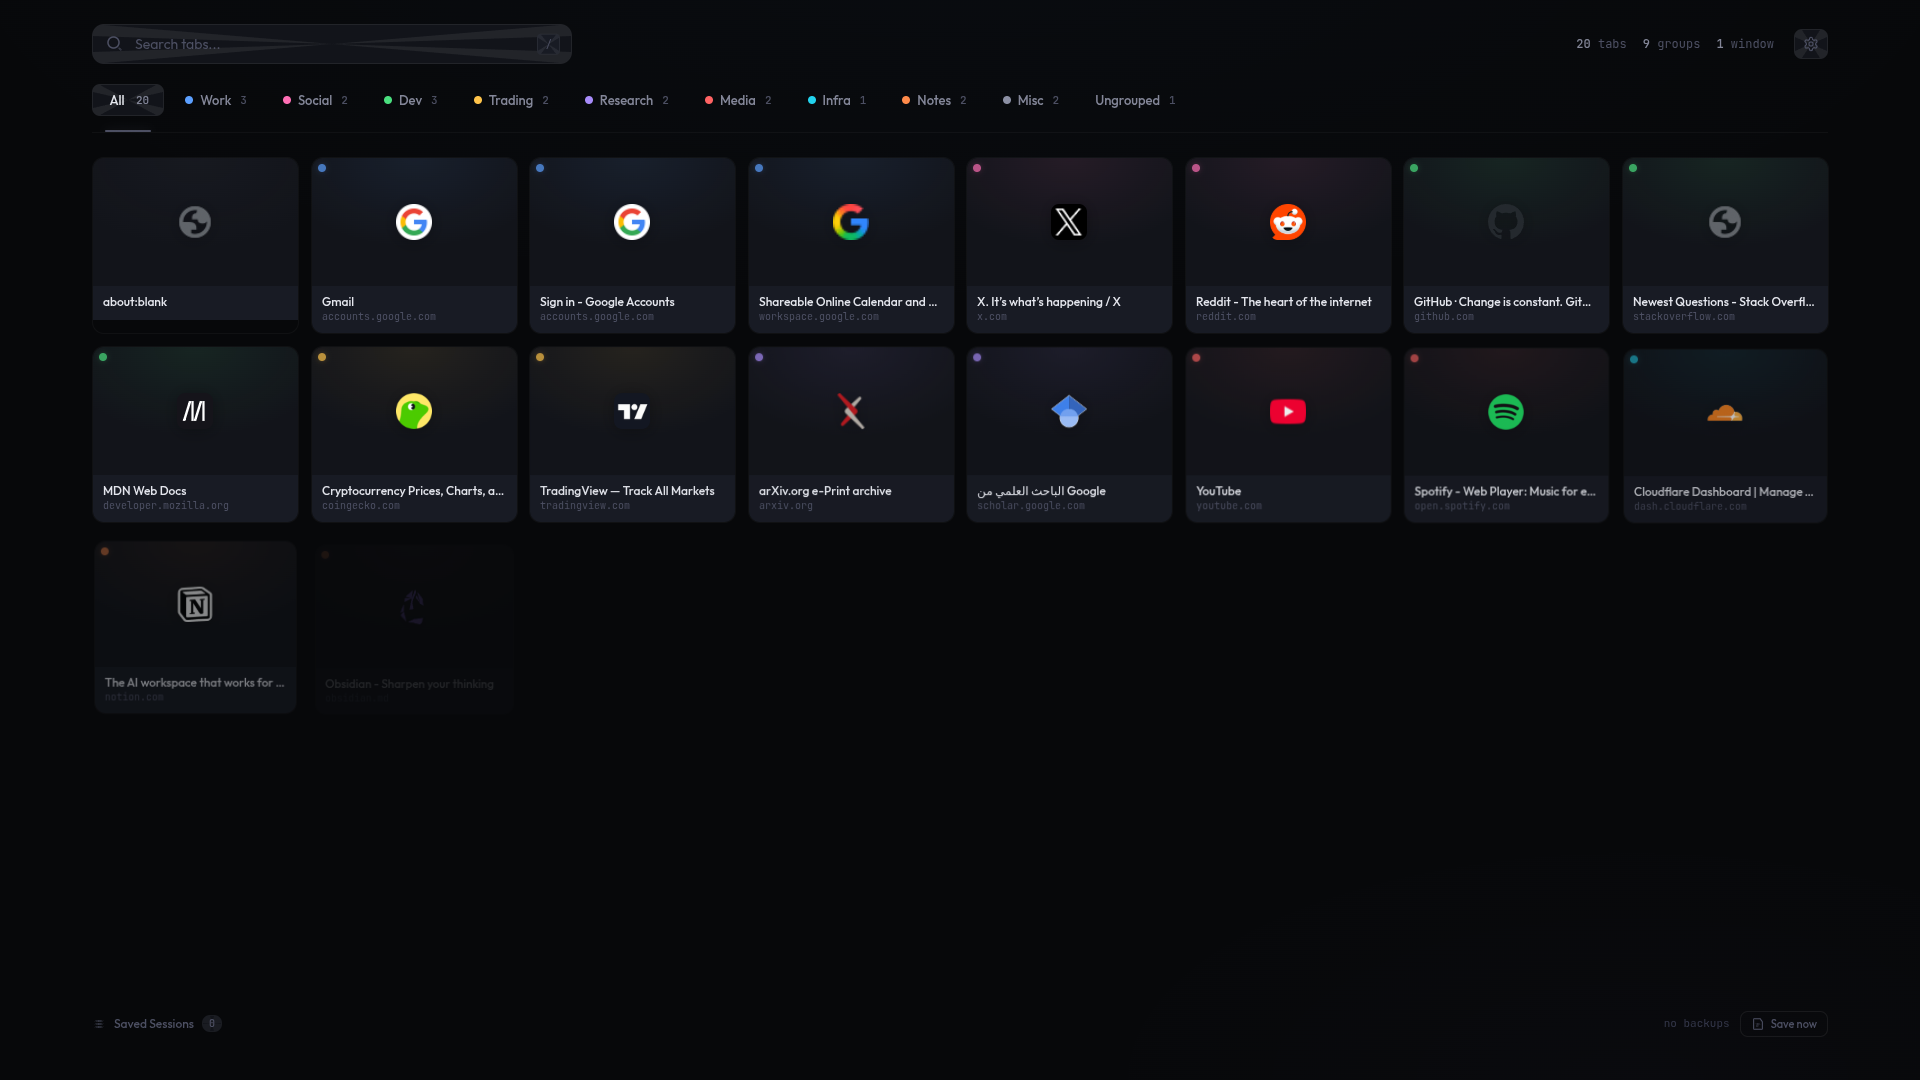
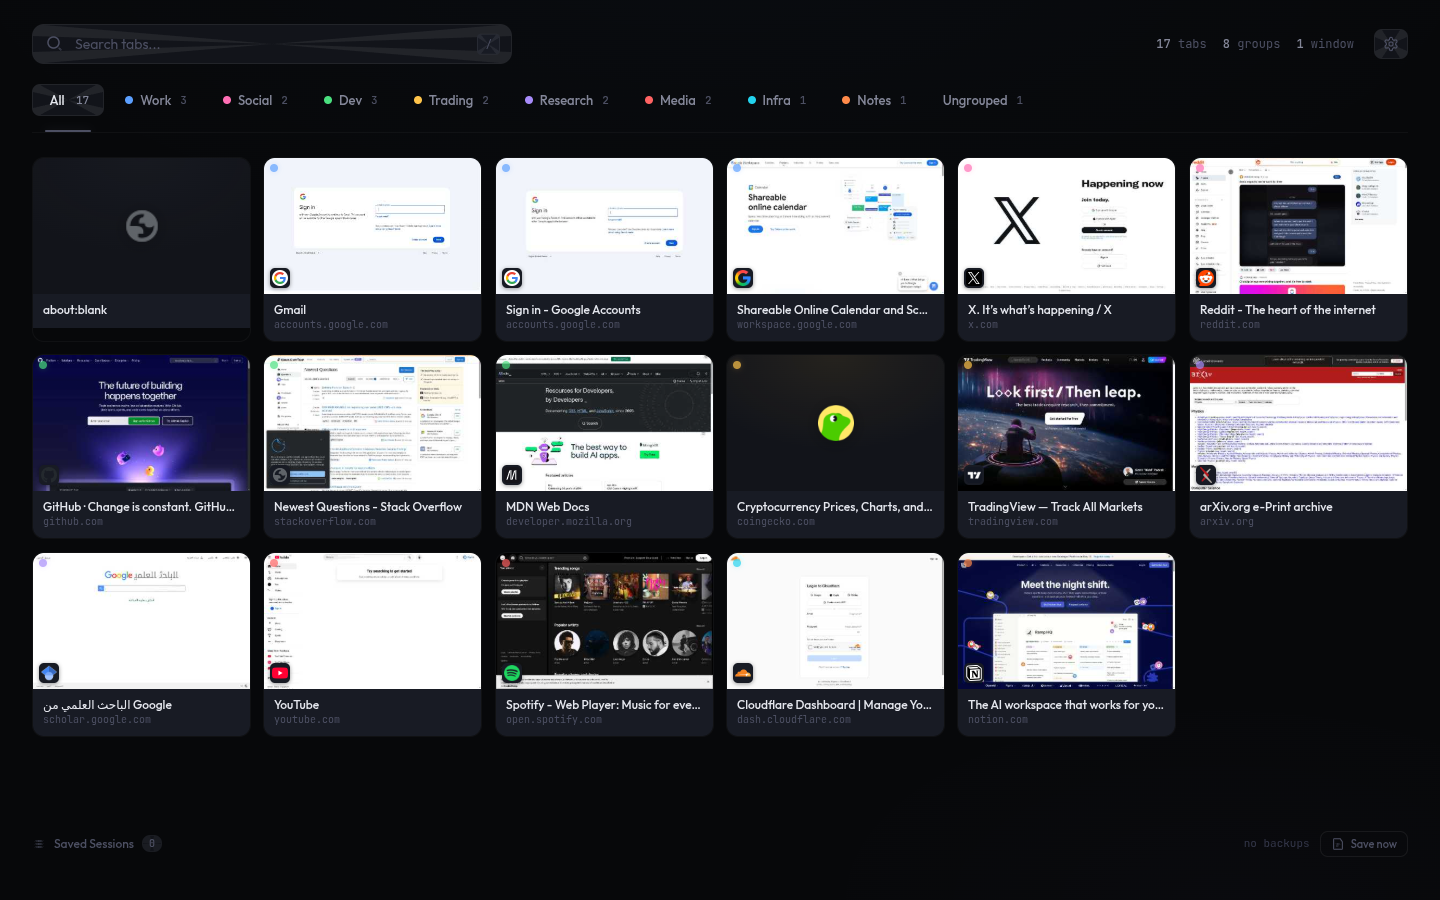
feat: auto theme detection, single screenshot, theme toggle
Landing page detects browser prefers-color-scheme and shows
matching screenshot. Sun/moon toggle in nav to switch manually.
Screenshots regenerated with real page thumbnails.

diff --git a/test/generate-screenshots.ts b/test/generate-screenshots.ts
@@ -1,0 +1,132 @@
+/**
+ * Generate marketing screenshots with real page thumbnails.
+ *
+ * Opens tabs, cycles through them to trigger screenshot capture,
+ * then opens speed dial to take the final screenshot.
+ */
+
+import { chromium } from 'playwright';
+import path from 'path';
+import fs from 'fs';
+
+const EXT_PATH = path.resolve(__dirname, '../extension');
+const OUT_DIR = path.resolve(__dirname, '../web');
+
+const GROUPS = [
+  { name: 'Work',     color: 'blue',   urls: ['https://mail.google.com', 'https://docs.google.com', 'https://calendar.google.com'] },
+  { name: 'Social',   color: 'pink',   urls: ['https://twitter.com', 'https://reddit.com'] },
+  { name: 'Dev',      color: 'green',  urls: ['https://github.com', 'https://stackoverflow.com', 'https://developer.mozilla.org'] },
+  { name: 'Trading',  color: 'yellow', urls: ['https://www.coingecko.com', 'https://www.tradingview.com'] },
+  { name: 'Research', color: 'purple', urls: ['https://arxiv.org', 'https://scholar.google.com'] },
+  { name: 'Media',    color: 'red',    urls: ['https://youtube.com', 'https://spotify.com'] },
+  { name: 'Infra',    color: 'cyan',   urls: ['https://dash.cloudflare.com'] },
+  { name: 'Notes',    color: 'orange', urls: ['https://notion.so'] },
+];
+
+async function main() {
+  console.log('Launching Chromium...');
+  const context = await chromium.launchPersistentContext('', {
+    headless: false,
+    args: [
+      `--disable-extensions-except=${EXT_PATH}`,
+      `--load-extension=${EXT_PATH}`,
+      '--no-first-run',
+      '--disable-default-apps',
+    ],
+    viewport: { width: 1440, height: 900 },
+  });
+
+  // Get extension ID
+  let extensionId = '';
+  const sw = context.serviceWorkers();
+  if (sw.length > 0) {
+    extensionId = sw[0].url().split('/')[2];
+  } else {
+    const worker = await context.waitForEvent('serviceworker', { timeout: 10000 });
+    extensionId = worker.url().split('/')[2];
+  }
+  console.log(`Extension: ${extensionId}`);
+  const extUrl = `chrome-extension://${extensionId}/newtab.html`;
+
+  // Open all tabs
+  console.log('Opening tabs...');
+  const pages: any[] = [];
+  for (const group of GROUPS) {
+    for (const url of group.urls) {
+      const p = await context.newPage();
+      try {
+        await p.goto(url, { timeout: 8000, waitUntil: 'domcontentloaded' });
+      } catch {}
+      pages.push(p);
+    }
+  }
+
+  // Wait for pages to settle
+  console.log('Waiting for pages to load...');
+  await new Promise(r => setTimeout(r, 5000));
+
+  // Cycle through each tab to trigger screenshot capture
+  console.log('Cycling tabs to capture thumbnails...');
+  for (const p of pages) {
+    try {
+      await p.bringToFront();
+      await new Promise(r => setTimeout(r, 2500)); // Background captures after 2s
+    } catch {}
+  }
+
+  // Open speed dial and create groups
+  console.log('Setting up groups...');
+  const dial = await context.newPage();
+  await dial.goto(extUrl);
+  await dial.waitForTimeout(2000);
+
+  // Create tab groups via Chrome API
+  await dial.evaluate(async (groups) => {
+    const allTabs = await chrome.tabs.query({});
+    const realTabs = allTabs.filter(t =>
+      !t.url?.startsWith('chrome-extension://') &&
+      t.url !== 'about:blank' &&
+      t.url !== 'chrome://newtab/'
+    );
+
+    let idx = 0;
+    for (const group of groups) {
+      const tabIds: number[] = [];
+      for (let i = 0; i < group.urls.length && idx < realTabs.length; i++, idx++) {
+        tabIds.push(realTabs[idx].id!);
+      }
+      if (tabIds.length > 0) {
+        const gid = await chrome.tabs.group({ tabIds });
+        await chrome.tabGroups.update(gid, {
+          title: group.name,
+          color: group.color as chrome.tabGroups.ColorEnum
+        });
+      }
+    }
+  }, GROUPS);
+
+  // Reload to pick up groups + thumbnails
+  await dial.goto(extUrl);
+  await dial.waitForTimeout(3000);
+
+  // Dark theme screenshot
+  console.log('Taking dark screenshot...');
+  await dial.screenshot({ path: `${OUT_DIR}/screenshot-dark.png`, fullPage: false });
+
+  // Switch to light theme
+  await dial.locator('#settings-btn').click();
+  await dial.waitForTimeout(200);
+  await dial.locator('.toggle-track').first().click();
+  await dial.waitForTimeout(500);
+  await dial.click('body');
+  await dial.waitForTimeout(300);
+
+  // Light theme screenshot
+  console.log('Taking light screenshot...');
+  await dial.screenshot({ path: `${OUT_DIR}/screenshot-light.png`, fullPage: false });
+
+  console.log('Done! Screenshots saved to web/');
+  await context.close();
+}
+
+main().catch(e => { console.error(e); process.exit(1); });

diff --git a/web/style.css b/web/style.css
@@ -142,6 +142,29 @@ nav .container {
   opacity: 1;
 }
 
+/* Theme toggle */
+.theme-btn {
+  background: none;
+  border: 1px solid var(--border-subtle);
+  border-radius: 8px;
+  padding: 5px 7px;
+  color: var(--text-2);
+  cursor: pointer;
+  display: flex;
+  align-items: center;
+  transition: all 0.15s;
+}
+
+.theme-btn:hover {
+  color: var(--text-1);
+  border-color: var(--border-medium);
+}
+
+/* Show sun in dark mode, moon in light mode */
+.icon-moon { display: none; }
+[data-theme="light"] .icon-sun { display: none; }
+[data-theme="light"] .icon-moon { display: block; }
+
 .nav-cta {
   display: inline-flex;
   align-items: center;
@@ -293,28 +316,16 @@ nav .container {
   animation: fadeUp 0.8s var(--ease) 0.4s both;
 }
 
-.screenshot-split {
-  display: grid;
-  grid-template-columns: 1fr 1fr;
-  gap: 16px;
-  max-width: 1060px;
-  margin: 0 auto;
-}
-
-.screenshot-half {
+.screenshot-img {
   width: 100%;
-  border-radius: 14px;
+  max-width: 1060px;
+  border-radius: 16px;
   border: 1px solid var(--border-subtle);
-  box-shadow:
-    0 24px 60px rgba(0, 0, 0, 0.4),
-    0 0 0 1px var(--border-faint);
-}
-
-.screenshot-half:first-child {
   box-shadow:
     0 24px 60px rgba(0, 0, 0, 0.4),
     0 0 0 1px var(--border-faint),
     0 0 40px var(--blue-glow);
+  transition: opacity 0.3s;
 }
 
 .hero-screenshot::after {
@@ -326,12 +337,6 @@ nav .container {
   height: 80px;
   background: radial-gradient(ellipse, rgba(91, 159, 255, 0.06), transparent);
   pointer-events: none;
-}
-
-@media (max-width: 768px) {
-  .screenshot-split {
-    grid-template-columns: 1fr;
-  }
 }
 
 @keyframes fadeUp {
@@ -662,6 +667,54 @@ footer .container {
 }
 
 .legal-page li { margin-bottom: 6px; }
+
+/* ================================================================
+   Light theme
+   ================================================================ */
+
+[data-theme="light"] {
+  --void: #f2f3f6;
+  --base: #f7f8fa;
+  --surface: #ffffff;
+  --card: #f9fafb;
+  --card-hover: #f0f1f5;
+  --elevated: #e8eaef;
+
+  --border-faint: rgba(0, 0, 0, 0.04);
+  --border-subtle: rgba(0, 0, 0, 0.08);
+  --border-medium: rgba(0, 0, 0, 0.13);
+
+  --text-1: #1a1c24;
+  --text-2: #5c5f72;
+  --text-3: #8b8ea0;
+  --text-4: #c0c2ce;
+
+  --blue: #3a7fe6;
+  --blue-dim: rgba(58, 127, 230, 0.06);
+  --blue-glow: rgba(58, 127, 230, 0.08);
+}
+
+[data-theme="light"] body {
+  background:
+    radial-gradient(ellipse 80% 50% at 50% -5%, rgba(58, 127, 230, 0.03) 0%, transparent 70%),
+    var(--void);
+}
+
+[data-theme="light"] nav {
+  background: rgba(242, 243, 246, 0.8);
+}
+
+[data-theme="light"] .grain { opacity: 0.01; }
+
+[data-theme="light"] .screenshot-img {
+  box-shadow:
+    0 24px 60px rgba(0, 0, 0, 0.08),
+    0 0 0 1px var(--border-subtle);
+}
+
+[data-theme="light"] .feature-card:hover {
+  box-shadow: 0 8px 32px rgba(0, 0, 0, 0.06);
+}
 
 /* ================================================================
    Scrollbar

diff --git a/web/index.html b/web/index.html
@@ -22,6 +22,12 @@
       </a>
       <ul class="nav-links">
         <li><a href="privacy.html">Privacy</a></li>
+        <li>
+          <button class="theme-btn" id="theme-btn" title="Toggle theme">
+            <svg class="icon-sun" width="16" height="16" viewBox="0 0 20 20" fill="none" stroke="currentColor" stroke-width="1.5"><circle cx="10" cy="10" r="4"/><path d="M10 2v2M10 16v2M2 10h2M16 10h2M4.93 4.93l1.41 1.41M13.66 13.66l1.41 1.41M4.93 15.07l1.41-1.41M13.66 6.34l1.41-1.41"/></svg>
+            <svg class="icon-moon" width="16" height="16" viewBox="0 0 20 20" fill="none" stroke="currentColor" stroke-width="1.5"><path d="M17.3 14.3A8 8 0 015.7 2.7 8 8 0 1017.3 14.3z"/></svg>
+          </button>
+        </li>
         <li><a href="#install" class="nav-cta">Install</a></li>
       </ul>
     </div>
@@ -43,12 +49,8 @@
         </a>
       </div>
 
-      <!-- Split screenshot: dark/light -->
       <div class="hero-screenshot">
-        <div class="screenshot-split">
-          <img src="screenshot-dark.png" alt="Speed Dial dark theme" class="screenshot-half">
-          <img src="screenshot-light.png" alt="Speed Dial light theme" class="screenshot-half">
-        </div>
+        <img src="screenshot-dark.png" alt="Speed Dial" class="screenshot-img" id="hero-screenshot">
       </div>
     </div>
   </section>
@@ -127,6 +129,33 @@
   </footer>
 
   <div class="grain" aria-hidden="true"></div>
+
+  <script>
+    const html = document.documentElement;
+    const btn = document.getElementById('theme-btn');
+    const img = document.getElementById('hero-screenshot');
+
+    function applyTheme(t) {
+      html.setAttribute('data-theme', t);
+      img.src = t === 'light' ? 'screenshot-light.png' : 'screenshot-dark.png';
+      localStorage.setItem('theme', t);
+    }
+
+    // Init: check saved preference, then system preference
+    const saved = localStorage.getItem('theme');
+    const system = window.matchMedia('(prefers-color-scheme: light)').matches ? 'light' : 'dark';
+    applyTheme(saved || system);
+
+    // Listen for system theme changes
+    window.matchMedia('(prefers-color-scheme: light)').addEventListener('change', e => {
+      if (!localStorage.getItem('theme')) applyTheme(e.matches ? 'light' : 'dark');
+    });
+
+    // Toggle button
+    btn.addEventListener('click', () => {
+      applyTheme(html.getAttribute('data-theme') === 'dark' ? 'light' : 'dark');
+    });
+  </script>
 
 </body>
 </html>
